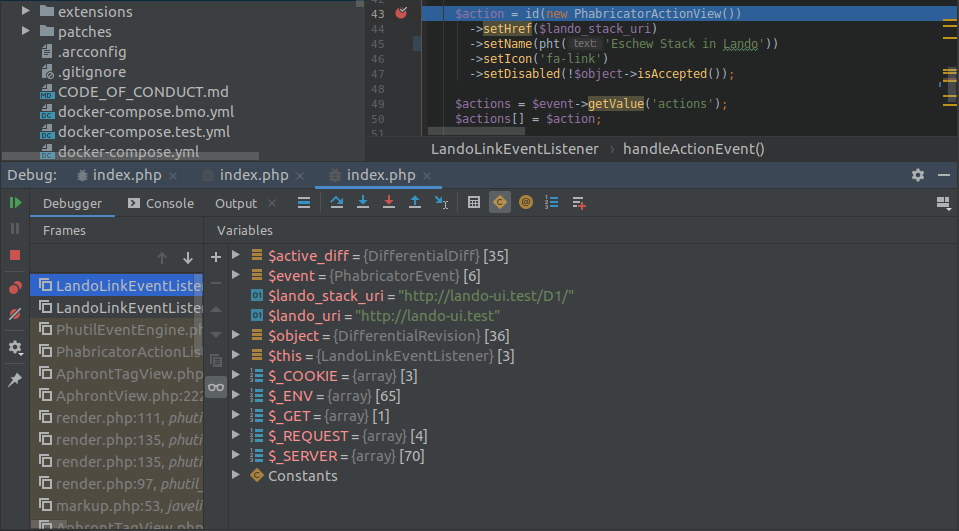
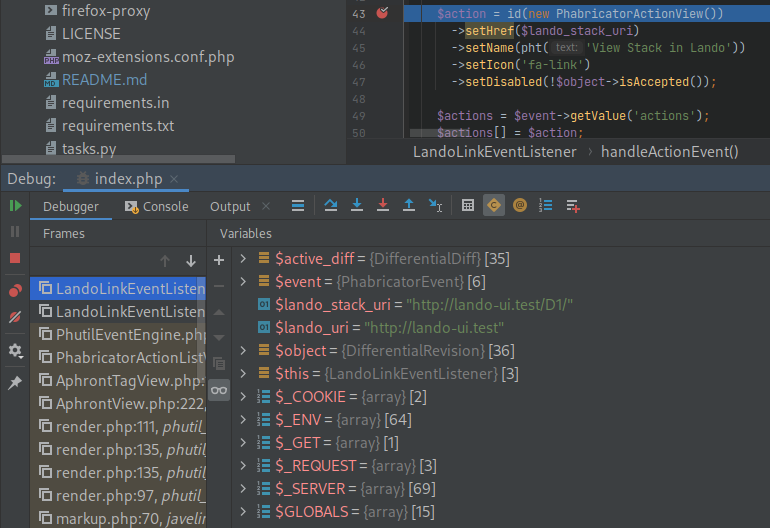
Bug 1719211: Update debugger docs
* PhpStorm settings have changed layout
* `libphutil` is gone, and `arcanist` is used instead
* Adds a note to hide the unhelpful "debug session without
  pause" notification.

diff --git a/README.md b/README.md
@@ -66,14 +66,21 @@ PHPStorm as the example IDE, though any Xdebug-compatible app should work.
 
 1. Start the development environment from the `suite` repository.
 1. Configure your IDE/debugger's Xdebug settings:
-    1. It should be listening for Xdebug on port 9000 (the default Xdebug port)
+    1. Port 9000 should be included in the list of XDebug ports.
     1. It should accept at least 10 simultaneous connections
+    1. Uncheck the "Notify if debug session was finished without being paused" option so that PhpStorm doesn't
+       continually pop up a notification if web requests succeed without hitting a breakpoint. This allows background
+       requests (fetching resources, `bmo.feed` requests, etc) to function without triggering warnings.
     ![](docs/debug-settings.png)
 1. Configure your source mappings from your host's directories to your server's (docker container's) directories
-    1. It's recommended to have the `libphutil` and `phabricator` source code in your PHP's includes
+    1. It's recommended to have the `arcanist` and `phabricator` source code in your PHP's includes
     so that you can step into (debug) and Intellisense the vendor code ![](docs/phabricator-includes.png)
+       * This can be set up by cloning [phabricator](https://github.com/phacility/phabricator) and
+         [arcanist](https://github.com/phacility/arcanist), then checking out the appropriate commits as defined in
+         this repository's `Dockerfile`.
     1. Create a new "server" configuration with the host as `phabricator.test` and the path mappings as shown below: ![](docs/mappings.png)
 1. Test your mappings
+    1. Enable the debugger in PhpStorm ![](docs/listening-debugger.png) 
     1. Set a breakpoint in `LandoLinkEventListener`
     1. Go to [`phabricator.test/D1`](http://phabricator.test/D1)
     1. Your IDE should have stopped the control flow on your breakpoint and be showing you debugger details ![](docs/debugger.png)
